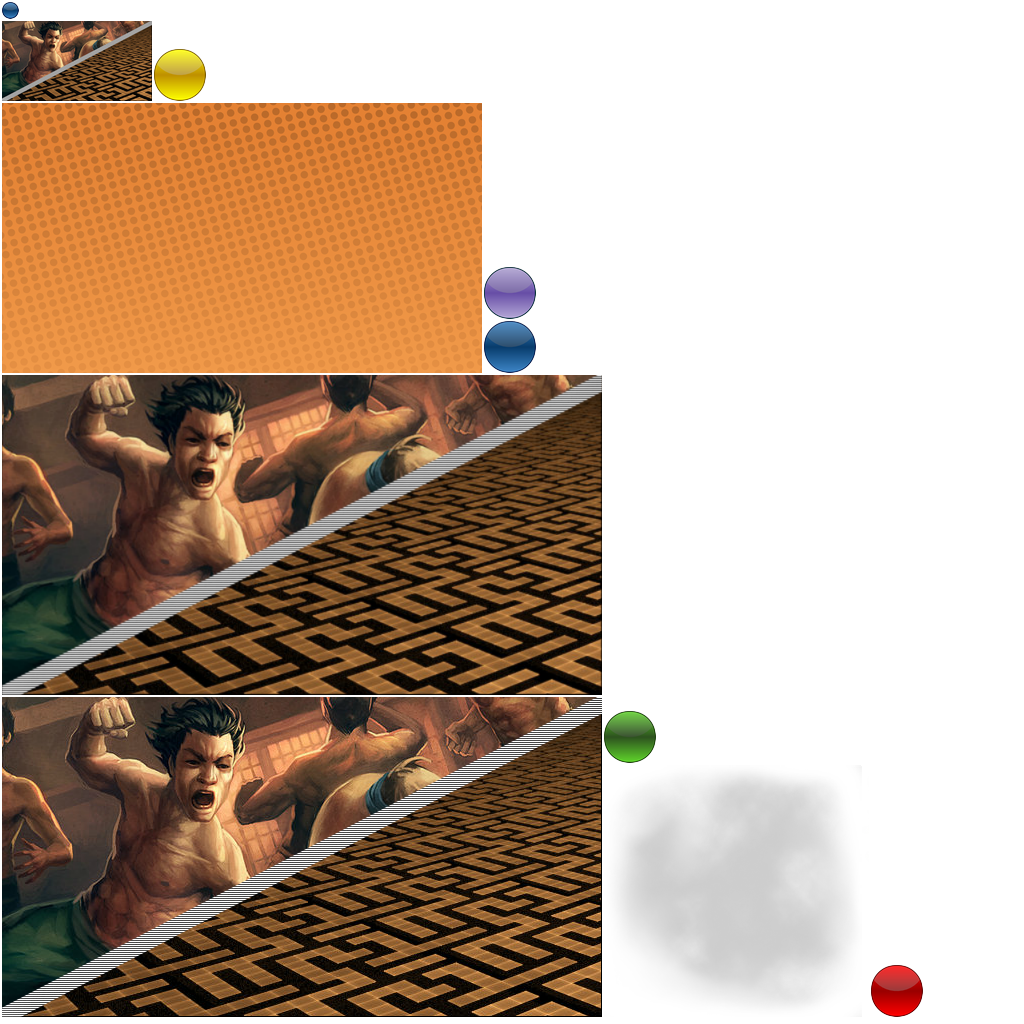
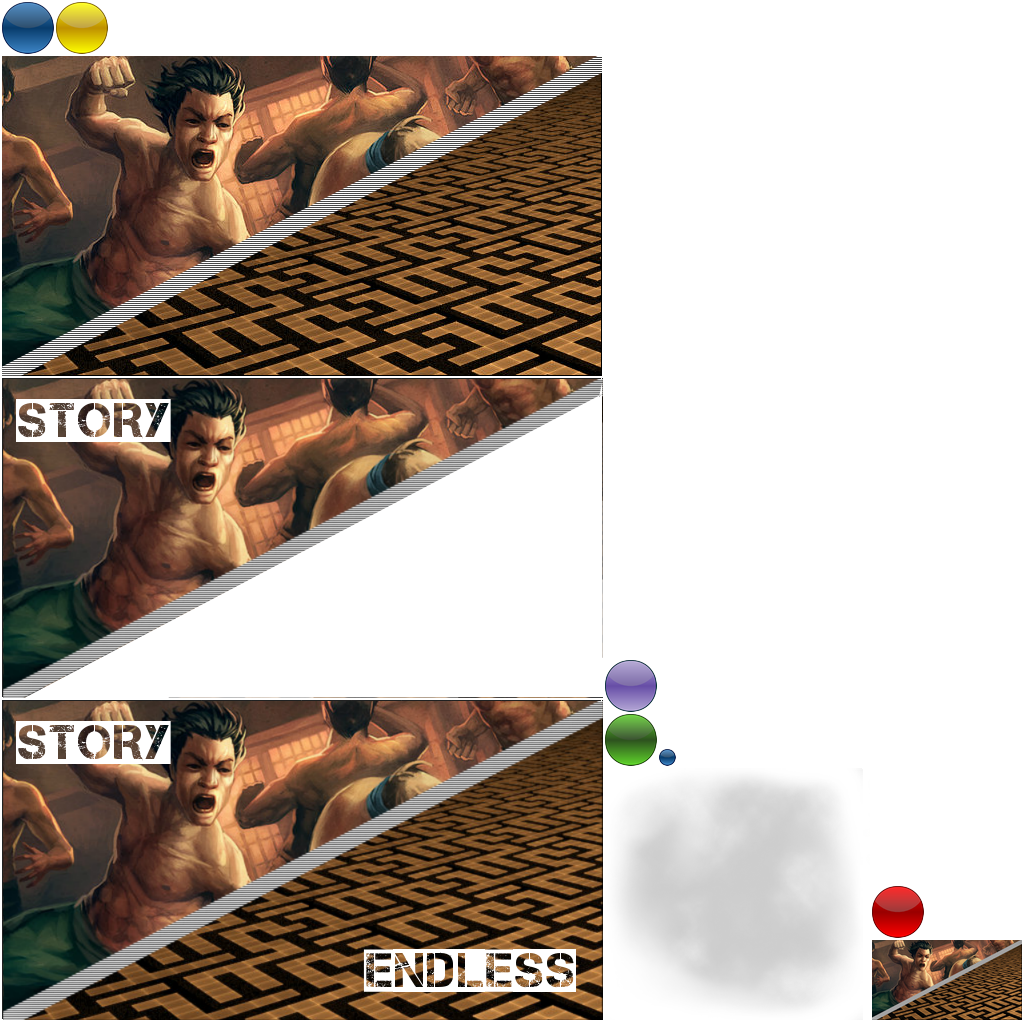
ParallaxTesting

diff --git a/core/src/com/screen/GameScreen.java b/core/src/com/screen/GameScreen.java
@@ -4,11 +4,14 @@ import com.Map.GestorContactes;
 import com.Map.MapBodyManager;
 import com.Map.TiledMapHelper;
 import com.Sprite.Hero;
+import com.Sprite.ParallaxBackground;
+import com.Sprite.ParallaxLayer;
 import com.badlogic.gdx.Gdx;
 import com.badlogic.gdx.Input;
 import com.badlogic.gdx.audio.Music;
 import com.badlogic.gdx.graphics.GL20;
 import com.badlogic.gdx.graphics.Texture;
+import com.badlogic.gdx.graphics.g2d.TextureRegion;
 import com.badlogic.gdx.math.MathUtils;
 import com.badlogic.gdx.math.Vector2;
 import com.badlogic.gdx.physics.box2d.Body;
@@ -41,7 +44,11 @@ public class GameScreen extends AbstractScreen {
 
     // TODO Afegir declaracions dels Sprites
     private Hero hero;
+    private Texture test;
 
+    private void loadBackground(){
+        test = new Texture("levels/Zone1/Cloudy-sky.jpg");
+    }
 
     /** Retorna una instancia de World amb una forsa de
      * gravetat indicada per parametres.
@@ -152,13 +159,12 @@ public class GameScreen extends AbstractScreen {
 
         enableColissions();
         box2DRenderer = new Box2DDebugRenderer();
-
+        loadBackground();
 
     }
 
     @Override
     public void render(float delta){
-
 
         hero.inicialitzarMoviments();
         handleInput();
@@ -170,18 +176,26 @@ public class GameScreen extends AbstractScreen {
         Gdx.gl.glClearColor(0, 0, 0, 1);
         Gdx.gl.glClear(GL20.GL_COLOR_BUFFER_BIT);
 
-
-
         moureCamera();
-
-        mapHelper.render();
-
 
         batch.setProjectionMatrix(mapHelper.getCamera().combined);
 
+        ParallaxBackground rgb = new ParallaxBackground(new ParallaxLayer[]{
+                new ParallaxLayer(new TextureRegion(test,600,320),new Vector2(),new Vector2(0, 0)),
+                new ParallaxLayer(new TextureRegion(test,600,320),new Vector2(1.0f,1.0f),new Vector2(0, 500)),
+                new ParallaxLayer(new TextureRegion(test,650,320),new Vector2(0.1f,0),new Vector2(0,HeroesNightfall.HEIGHT-200),new Vector2(0, 0)),
+        }, 800, 480,new Vector2(150,0));
+        rgb.render(delta);
+
         batch.begin();
-            hero.dibuixar(batch);
+            //batch.draw(test, 0, 0);
+        hero.dibuixar(batch);
         batch.end();
+
+
+
+        mapHelper.render();
+
         Gdx.app.log(String.valueOf(hero.getCos().getPosition().y),"har");
         box2DRenderer.render(world, mapHelper.getCamera().combined.scale(
                 GameResourses.PIXELS_PER_METRE, GameResourses.PIXELS_PER_METRE,

diff --git a/core/src/com/Sprite/ParallaxBackground.java b/core/src/com/Sprite/ParallaxBackground.java
@@ -1,0 +1,49 @@
+package com.Sprite;
+import com.badlogic.gdx.graphics.Camera;
+import com.badlogic.gdx.graphics.OrthographicCamera;
+import com.badlogic.gdx.graphics.g2d.SpriteBatch;
+import com.badlogic.gdx.math.Vector2;
+
+public class ParallaxBackground {
+
+    private ParallaxLayer[] layers;
+    private Camera camera;
+    private SpriteBatch batch;
+    private Vector2 speed = new Vector2();
+
+    /**
+     * @param layers  The  background layers
+     * @param width   The screenWith
+     * @param height The screenHeight
+     * @param speed A Vector2 attribute to point out the x and y speed
+     */
+    public ParallaxBackground(ParallaxLayer[] layers,float width,float height,Vector2 speed){
+        this.layers = layers;
+        this.speed.set(speed);
+        camera = new OrthographicCamera(width, height);
+        this.batch = new SpriteBatch();
+    }
+
+    public void render(float delta){
+        this.camera.position.add(speed.x*delta,speed.y*delta, 0);
+        for(ParallaxLayer layer:layers){
+            batch.setProjectionMatrix(camera.projection);
+            batch.begin();
+            float currentX = - camera.position.x*layer.parallaxRatio.x % ( layer.region.getRegionWidth() + layer.padding.x) ;
+
+            if( speed.x < 0 )currentX += -( layer.region.getRegionWidth() + layer.padding.x);
+            do{
+                float currentY = - camera.position.y*layer.parallaxRatio.y % ( layer.region.getRegionHeight() + layer.padding.y) ;
+                if( speed.y < 0 )currentY += - (layer.region.getRegionHeight()+layer.padding.y);
+                do{
+                    batch.draw(layer.region,
+                            -this.camera.viewportWidth/2+currentX + layer.startPosition.x ,
+                            -this.camera.viewportHeight/2 + currentY +layer.startPosition.y);
+                    currentY += ( layer.region.getRegionHeight() + layer.padding.y );
+                }while( currentY < camera.viewportHeight);
+                currentX += ( layer.region.getRegionWidth()+ layer.padding.x);
+            }while( currentX < camera.viewportWidth);
+            batch.end();
+        }
+    }
+}

diff --git a/core/src/com/Sprite/ParallaxLayer.java b/core/src/com/Sprite/ParallaxLayer.java
@@ -1,0 +1,26 @@
+package com.Sprite;
+
+import com.badlogic.gdx.graphics.g2d.TextureRegion;
+import com.badlogic.gdx.math.Vector2;
+
+public class ParallaxLayer{
+    public TextureRegion region;
+    public Vector2 parallaxRatio;
+    public Vector2 startPosition;
+    public Vector2 padding ;
+    public ParallaxLayer(TextureRegion region,Vector2 parallaxRatio,Vector2 padding){
+        this(region, parallaxRatio, new Vector2(0,0),padding);
+    }
+    /**
+     * @param region   the TextureRegion to draw , this can be any width/height
+     * @param parallaxRatio   the relative speed of x,y {@link ParallaxBackground#ParallaxBackground(ParallaxLayer[], float, float, Vector2)}
+     * @param startPosition the init position of x,y
+     * @param padding  the padding of the region at x,y
+     */
+    public ParallaxLayer(TextureRegion region,Vector2 parallaxRatio,Vector2 startPosition,Vector2 padding){
+        this.region  = region;
+        this.parallaxRatio = parallaxRatio;
+        this.startPosition = startPosition;
+        this.padding = padding;
+    }
+}

diff --git a/core/src/com/Sprite/Hero.java b/core/src/com/Sprite/Hero.java
@@ -107,7 +107,7 @@ public class Hero {
     }
 
     public void inicialitzarMoviments() {
-        setMoureDreta(false);
+        setMoureDreta(true);
         setMoureEsquerra(false);
         setFerSalt(false);
 
@@ -145,7 +145,7 @@ public class Hero {
      * Els impulsos s'apliquen des del centre del protagonista
      */
     public void moure() {
-        if (moureDreta) {
+        if (moureDreta && getCos().getLinearVelocity().x < 5) {
             getCos().applyLinearImpulse(new Vector2(0.2f, 0.0f),
                     getCos().getWorldCenter(), true);
             if(getSpriteAnimat().getDirection() != AnimatorWalk.Direction.JUMP && getSpriteAnimat().getDirection() != AnimatorWalk.Direction.FALLING){
